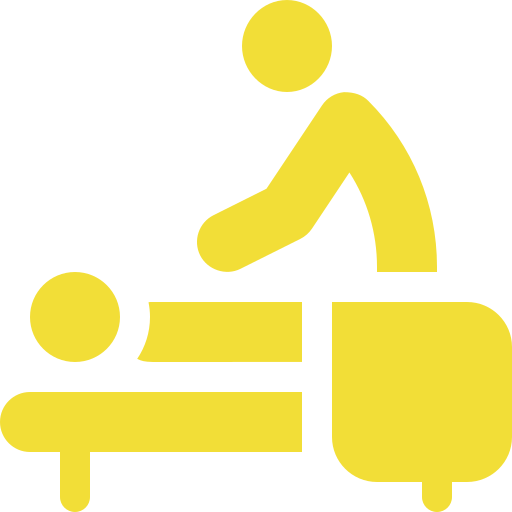
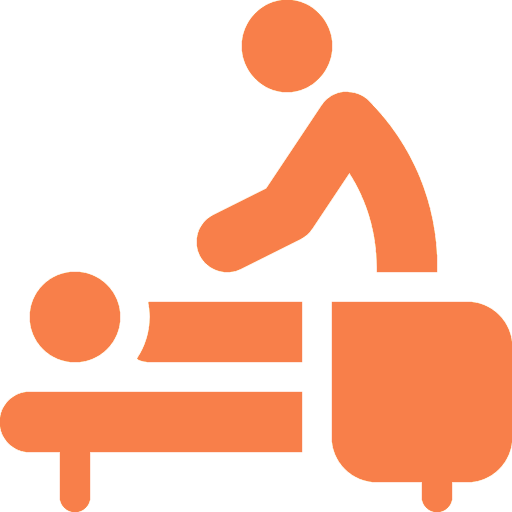
contact et footer en cours

diff --git a/src/components/presentation.jsx b/src/components/presentation.jsx
@@ -4,10 +4,10 @@ import styled from "styled-components"
 import { shadow, borderBox, Section } from "../styles/global"
 import { graphql } from "gatsby"
 import Img from "gatsby-image"
-import {Carousel} from "react-bootstrap"
+import { Carousel } from "react-bootstrap"
 
 const Content = styled.div`
-  display:flex;
+  display: flex;
 `
 
 const LeftContent = styled.div`
@@ -20,7 +20,7 @@ const LeftContent = styled.div`
 `
 const MiddleContent = styled.div`
   display: flex;
-  flex-direction:column;
+  flex-direction: column;
   align-self: stretch;
   width: 60%;
   padding: 25px;
@@ -38,66 +38,69 @@ const RightContent = styled.div`
 `
 
 const Emp = styled.span`
-  color: #68C100;
+  color: #68c100;
   font-weight: bold;
 `
 const Und = styled.p`
   text-decoration: underline;
 `
-const ExternalCarousel = ({data, interval}) => {
-
+const ExternalCarousel = ({ data, interval }) => {
   return (
-    <Carousel controls={false} indicators={false} interval={interval} >
+    <Carousel controls={false} indicators={false} interval={interval}>
       <Carousel.Item>
         <Img fluid={data.image.childImageSharp.fluid} />
-      </Carousel.Item> 
+      </Carousel.Item>
       <Carousel.Item>
         <Img fluid={data.image.childImageSharp.fluid} />
-      </Carousel.Item> 
+      </Carousel.Item>
       <Carousel.Item>
         <Img fluid={data.image.childImageSharp.fluid} />
-      </Carousel.Item> 
+      </Carousel.Item>
     </Carousel>
   )
 }
 
-const Presentation = ({data}) => {
+
+
+const Presentation = ({ data }) => {
   return (
     <Section id="presentation">
       <SectionTitle title="Présentation" color="#68C100" color2="#82C535" />
       <Content>
-      <LeftContent>
-        <ExternalCarousel data={data} interval={10000} />
-        <ExternalCarousel data={data} interval={12000} />
-      </LeftContent>
-      <MiddleContent>
-        <Und>Lorem ipsum dolor :</Und>
-        <p>
-          Lorem ipsum dolor sit amet, consectetur adipiscing elit. Ut quis
-          molestie ipsum. In hac habitasse platea dictumst. Aliquam suscipit
-          vestibulum diam, at dignissim nisl hendrerit pharetra. Vestibulum
-          rhoncus justo porta, <Emp>sodales ligula vitae</Emp>, porttitor metus.
-          Vestibulum sed laoreet eros. Quisque ut tellus varius, aliquam velit
-          vitae, placerat nisi. Phasellus congue ornare est, sed consectetur
-          urna porta viverra. Vivamus pharetra accumsan dui, in pellentesque est
-          scelerisque non. Nullam eget augue at urna laoreet aliquet. Praesent
-          nunc dui, pulvinar a nunc at, porttitor rhoncus quam.
-        </p>
-        <Und>Praesent semper quam massa</Und>
-        <p>
-          Praesent semper quam massa, ut varius urna sagittis sed. Nulla felis
-          lorem, blandit ac efficitur eget, dapibus in risus. Suspendisse
-          aliquet lorem in purus auctor tempor. Nullam gravida lacinia feugiat.
-          Quisque mattis mi elit. Aenean consectetur vulputate justo sed
-          laoreet. Duis eu odio porta, vestibulum nisl id, posuere quam. Donec
-          vehicula nunc et purus porta, id pellentesque erat dignissim. Duis
-          ullamcorper risus velit, quis semper enim imperdiet mollis.
-        </p>
-      </MiddleContent>
-      <RightContent>
-        <ExternalCarousel data={data} interval={11000} />
-        <ExternalCarousel data={data} interval={13000} />
-      </RightContent></Content>
+        <LeftContent>
+          <ExternalCarousel data={data} interval={10000} />
+          <ExternalCarousel data={data} interval={12000} />
+        </LeftContent>
+        <MiddleContent>
+          <Und>Lorem ipsum dolor :</Und>
+          <p>
+            Lorem ipsum dolor sit amet, consectetur adipiscing elit. Ut quis
+            molestie ipsum. In hac habitasse platea dictumst. Aliquam suscipit
+            vestibulum diam, at dignissim nisl hendrerit pharetra. Vestibulum
+            rhoncus justo porta, <Emp>sodales ligula vitae</Emp>, porttitor
+            metus. Vestibulum sed laoreet eros. Quisque ut tellus varius,
+            aliquam velit vitae, placerat nisi. Phasellus congue ornare est, sed
+            consectetur urna porta viverra. Vivamus pharetra accumsan dui, in
+            pellentesque est scelerisque non. Nullam eget augue at urna laoreet
+            aliquet. Praesent nunc dui, pulvinar a nunc at, porttitor rhoncus
+            quam.
+          </p>
+          <Und>Praesent semper quam massa</Und>
+          <p>
+            Praesent semper quam massa, ut varius urna sagittis sed. Nulla felis
+            lorem, blandit ac efficitur eget, dapibus in risus. Suspendisse
+            aliquet lorem in purus auctor tempor. Nullam gravida lacinia
+            feugiat. Quisque mattis mi elit. Aenean consectetur vulputate justo
+            sed laoreet. Duis eu odio porta, vestibulum nisl id, posuere quam.
+            Donec vehicula nunc et purus porta, id pellentesque erat dignissim.
+            Duis ullamcorper risus velit, quis semper enim imperdiet mollis.
+          </p>
+       </MiddleContent>
+        <RightContent>
+          <ExternalCarousel data={data} interval={11000} />
+          <ExternalCarousel data={data} interval={13000} />
+        </RightContent>
+      </Content>
     </Section>
   )
 }

diff --git a/src/components/footer.jsx b/src/components/footer.jsx
@@ -1,8 +1,26 @@
-import React from "react"
+import React, { useState } from "react"
 import { Container } from "react-bootstrap"
-import { Link } from "./link"
+import styled from "styled-components"
+import { shadow, borderBox, Section } from "../styles/global"
+import { Modal } from "react-bootstrap"
+
+const Link = styled.a`
+  text-decoration: underline;
+`
+const IconLegal = styled.p`
+  font-size:smaller;
+`
 
 export function Footer(props) {
+  const [isFullScreen, setIsFullscreen] = useState(false)
+
+  const closeFullScreen = () => {
+    setIsFullscreen(false)
+  }
+  const openFullScreen = () => {
+    setIsFullscreen(true)
+  }
+
   return (
     <Container class="text-center">
       <br />
@@ -11,29 +29,39 @@ export function Footer(props) {
       <br />
       <br />
       <br />
-      {/* <p style={{textAlign:"center"}}>Deploy by Bodaway with ♥</p> */}
-      Icons made by{" "}
-      <a href="http://www.freepik.com/" title="Freepik">
-        Freepik
-      </a>{" "}
-      from{" "}
-      <a href="https://www.flaticon.com/" title="Flaticon">
-        {" "}
-        www.flaticon.com
-      </a>
-      <div>
-        Icons made by{" "}
-        <a
-          href="https://www.flaticon.com/free-icon/nurse_1165528"
-          title="mavadee"
-        >
-          mavadee
-        </a>{" "}
-        from{" "}
-        <a href="https://www.flaticon.com/" title="Flaticon">
-          www.flaticon.com
-        </a>
-      </div>
+      <Link onClick={openFullScreen}>Mentions légales</Link>
+
+      <Modal show={isFullScreen} onHide={closeFullScreen} size="lg" centered>
+        <Modal.Header closeButton>
+          <Modal.Title>Mentions légales</Modal.Title>
+        </Modal.Header>
+        <Modal.Body>
+          <p>
+            ASSOCIATION DU VENDEUVROIS DES PROFESSIONNELS DE SANTE <br />
+            Association déclarée <br />
+            SIRET : 848 795 324 000 13 <br />
+            3 Avenue de l'armée Leclerc <br/>10140 VENDEUVRE-SUR-BARSE
+          </p>
+          <p>Concepteur: <a href="mailto:michel.bonenfant.jr@protonmail.com">Michel Bonenfant</a>.</p>
+          <IconLegal>
+          Icons made by{" "}
+          <a href="http://www.freepik.com/" title="Freepik">
+            Freepik
+          </a>{" "}
+          and{" "}
+            <a
+              href="https://www.flaticon.com/free-icon/nurse_1165528"
+              title="mavadee"
+            >
+              mavadee
+            </a>{" "}
+            from{" "}
+            <a href="https://www.flaticon.com/" title="Flaticon">
+              www.flaticon.com
+            </a>
+          </IconLegal>
+        </Modal.Body>
+      </Modal>
     </Container>
   )
 }

diff --git a/src/components/contact.jsx b/src/components/contact.jsx
@@ -1,0 +1,41 @@
+import React from "react"
+import SectionTitle from "./section_title"
+import styled from "styled-components"
+import { shadow, borderBox, Section } from "../styles/global"
+
+const MapOuter = styled.div`
+  margin-top: 20px;
+  display: flex;
+  justify-content: center;
+  min-height: 200px;
+`
+const MapCanvas = styled.div`
+  overflow: hidden;
+  background: none !important;
+  width: 60%;
+`
+
+const Contact = () => {
+  return (
+    <Section>
+      <SectionTitle title="Contact" color="#555555" color2="#555555" />
+      <MapOuter>
+        <MapCanvas>
+          <iframe
+            width="100%"
+            height="100%"
+            id="gmap_canvas"
+            src="https://maps.google.com/maps?q=vendeuvre%20sur%20barse&t=&z=13&ie=UTF8&iwloc=&output=embed"
+            frameborder="0"
+            scrolling="no"
+            marginheight="0"
+            marginwidth="0"
+          ></iframe>
+          {/* <a href="https://www.whatismyip-address.com/divi-discount/"></a> */}
+        </MapCanvas>
+      </MapOuter>
+    </Section>
+  )
+}
+
+export default Contact

diff --git a/src/components/pro_by_cat.jsx b/src/components/pro_by_cat.jsx
@@ -26,7 +26,7 @@ const BottomLine = styled.div`
   display: flex;
   visibility: hidden;
   justify-content: center;
-  background-color: #f2de37;
+  background-color: #F87F4A;
   height: 2px;
 
   ${ProElem}:hover > & {
@@ -43,7 +43,7 @@ const BottomLine = styled.div`
     height: 0;
     border-style: solid;
     border-width: 0 4px 4px 4px;
-    border-color: transparent transparent #f2de37 transparent;
+    border-color: transparent transparent #F87F4A transparent;
     transform: translateY(-100%);
   }
 `
@@ -103,7 +103,7 @@ const ProByCats = ({data}) => {
 
   return (
     <Section id="probycategories">
-      <SectionTitle title="Professionnels" color="#f2de37" color2="#f2de37" />
+      <SectionTitle title="Professionnels" color="#F87F4A" color2="#F87F4A" />
         <ProList>
           <GhostElem></GhostElem>
           {loadList}

diff --git a/src/pages/index.js b/src/pages/index.js
@@ -4,6 +4,7 @@ import Layout from "../components/layout"
 import Presentation from "../components/presentation"
 import ProByCat from "../components/pro_by_cat"
 import ActualiteLarge from "../components/actualites_large"
+import Contact from "../components/contact"
 import { graphql } from "gatsby"
 
 export const query = graphql`
@@ -59,5 +60,6 @@ export default ({ data }) => (
     <Presentation data={data.allTestdataJson.edges[0].node.Presentation} />
     <ProByCat data={data.allTestdataJson.edges[0].node.Categories} />
     <ActualiteLarge data={data.allTestdataJson.edges[0].node.Actualites} />
+    <Contact />
   </Layout>
 )

diff --git a/src/components/cat_pro_detail.jsx b/src/components/cat_pro_detail.jsx
@@ -63,7 +63,7 @@ const Vline = styled.div`
   flex-direction: column;
   width: 5px;
   margin-bottom: 2px;
-  background-color: #f2de37;
+  background-color: #F87F4A;
 
   ${ProElem}:hover > & {
     visibility: visible;
@@ -83,7 +83,7 @@ const Vline = styled.div`
     //margin-top: -10px;
     border-style: solid;
     border-width: 4px 4px 4px 4px;
-    border-color: transparent #f2de37 transparent transparent;
+    border-color: transparent #F87F4A transparent transparent;
     transform: translateX(-100%);
   }
 `

diff --git a/src/components/pro_detail.jsx b/src/components/pro_detail.jsx
@@ -2,7 +2,7 @@ import React from "react"
 import styled from "styled-components"
 
 const Title = styled.h3`
-  border-bottom: solid 1px #f2de37;
+  border-bottom: solid 1px #F87F4A;
   padding-bottom: 5px;
 `
 const SubTitle = styled.h4`
